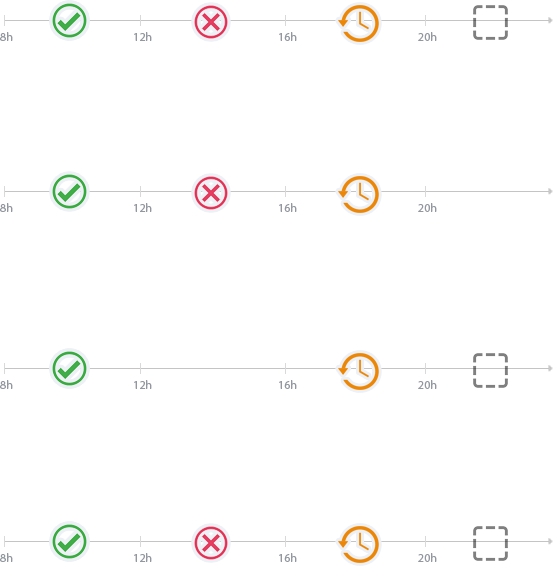
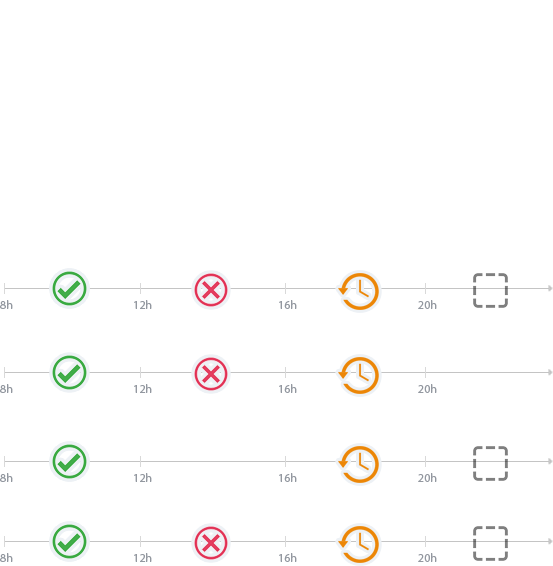
traitement

diff --git a/www/pages/prescriptions.html b/www/pages/prescriptions.html
@@ -65,177 +65,90 @@
             </div>
             <!-- END PAGE HEADER-->
             <div>
-                <section class="cd-horizontal-timeline">
-                    <div class="timeline">
-                        <div class="events-wrapper">
-                            <div class="events">
-                                <ol>
-                                    <li><a href="#0" data-date="16/01/2014" class="selected">16 Jan</a></li>
-                                    <li><a href="#0" data-date="28/02/2014">28 Feb</a></li>
-                                    <li><a href="#0" data-date="20/04/2014">20 Mar</a></li>
-                                    <li><a href="#0" data-date="20/05/2014">20 May</a></li>
-                                    <li><a href="#0" data-date="09/07/2014">09 Jul</a></li>
-                                    <li><a href="#0" data-date="30/08/2014">30 Aug</a></li>
-                                    <li><a href="#0" data-date="15/09/2014">15 Sep</a></li>
-                                    <li><a href="#0" data-date="01/11/2014">01 Nov</a></li>
-                                    <li><a href="#0" data-date="10/12/2014">10 Dec</a></li>
-                                    <li><a href="#0" data-date="19/01/2015">29 Jan</a></li>
-                                    <li><a href="#0" data-date="03/03/2015">3 Mar</a></li>
-                                </ol>
-
-                                <span class="filling-line" aria-hidden="true"></span>
-                            </div> <!-- .events -->
-                        </div> <!-- .events-wrapper -->
-
-                        <ul class="cd-timeline-navigation">
-                            <li><a href="#0" class="prev inactive">Prev</a></li>
-                            <li><a href="#0" class="next">Next</a></li>
-                        </ul> <!-- .cd-timeline-navigation -->
-                    </div> <!-- .timeline -->
-
-                    <div class="events-content">
-                        <ol>
-                            <li class="selected" data-date="16/01/2014">
-                                <h2>Horizontal Timeline</h2>
-                                <em>January 16th, 2014</em>
-                                <p>
-                                    Lorem ipsum dolor sit amet, consectetur adipisicing elit. Illum praesentium officia,
-                                    fugit recusandae ipsa, quia velit nulla adipisci? Consequuntur aspernatur at, eaque
-                                    hic repellendus sit dicta consequatur quae, ut harum ipsam molestias maxime non nisi
-                                    reiciendis eligendi! Doloremque quia pariatur harum ea amet quibusdam quisquam,
-                                    quae, temporibus dolores porro doloribus.
-                                </p>
-                            </li>
-
-                            <li data-date="28/02/2014">
-                                <h2>Event title here</h2>
-                                <em>February 28th, 2014</em>
-                                <p>
-                                    Lorem ipsum dolor sit amet, consectetur adipisicing elit. Illum praesentium officia,
-                                    fugit recusandae ipsa, quia velit nulla adipisci? Consequuntur aspernatur at, eaque
-                                    hic repellendus sit dicta consequatur quae, ut harum ipsam molestias maxime non nisi
-                                    reiciendis eligendi! Doloremque quia pariatur harum ea amet quibusdam quisquam,
-                                    quae, temporibus dolores porro doloribus.
-                                </p>
-                            </li>
-
-                            <li data-date="20/04/2014">
-                                <h2>Event title here</h2>
-                                <em>March 20th, 2014</em>
-                                <p>
-                                    Lorem ipsum dolor sit amet, consectetur adipisicing elit. Illum praesentium officia,
-                                    fugit recusandae ipsa, quia velit nulla adipisci? Consequuntur aspernatur at, eaque
-                                    hic repellendus sit dicta consequatur quae, ut harum ipsam molestias maxime non nisi
-                                    reiciendis eligendi! Doloremque quia pariatur harum ea amet quibusdam quisquam,
-                                    quae, temporibus dolores porro doloribus.
-                                </p>
-                            </li>
-
-                            <li data-date="20/05/2014">
-                                <h2>Event title here</h2>
-                                <em>May 20th, 2014</em>
-                                <p>
-                                    Lorem ipsum dolor sit amet, consectetur adipisicing elit. Illum praesentium officia,
-                                    fugit recusandae ipsa, quia velit nulla adipisci? Consequuntur aspernatur at, eaque
-                                    hic repellendus sit dicta consequatur quae, ut harum ipsam molestias maxime non nisi
-                                    reiciendis eligendi! Doloremque quia pariatur harum ea amet quibusdam quisquam,
-                                    quae, temporibus dolores porro doloribus.
-                                </p>
-                            </li>
-
-                            <li data-date="09/07/2014">
-                                <h2>Event title here</h2>
-                                <em>July 9th, 2014</em>
-                                <p>
-                                    Lorem ipsum dolor sit amet, consectetur adipisicing elit. Illum praesentium officia,
-                                    fugit recusandae ipsa, quia velit nulla adipisci? Consequuntur aspernatur at, eaque
-                                    hic repellendus sit dicta consequatur quae, ut harum ipsam molestias maxime non nisi
-                                    reiciendis eligendi! Doloremque quia pariatur harum ea amet quibusdam quisquam,
-                                    quae, temporibus dolores porro doloribus.
-                                </p>
-                            </li>
-
-                            <li data-date="30/08/2014">
-                                <h2>Event title here</h2>
-                                <em>August 30th, 2014</em>
-                                <p>
-                                    Lorem ipsum dolor sit amet, consectetur adipisicing elit. Illum praesentium officia,
-                                    fugit recusandae ipsa, quia velit nulla adipisci? Consequuntur aspernatur at, eaque
-                                    hic repellendus sit dicta consequatur quae, ut harum ipsam molestias maxime non nisi
-                                    reiciendis eligendi! Doloremque quia pariatur harum ea amet quibusdam quisquam,
-                                    quae, temporibus dolores porro doloribus.
-                                </p>
-                            </li>
-
-                            <li data-date="15/09/2014">
-                                <h2>Event title here</h2>
-                                <em>September 15th, 2014</em>
-                                <p>
-                                    Lorem ipsum dolor sit amet, consectetur adipisicing elit. Illum praesentium officia,
-                                    fugit recusandae ipsa, quia velit nulla adipisci? Consequuntur aspernatur at, eaque
-                                    hic repellendus sit dicta consequatur quae, ut harum ipsam molestias maxime non nisi
-                                    reiciendis eligendi! Doloremque quia pariatur harum ea amet quibusdam quisquam,
-                                    quae, temporibus dolores porro doloribus.
-                                </p>
-                            </li>
-
-                            <li data-date="01/11/2014">
-                                <h2>Event title here</h2>
-                                <em>November 1st, 2014</em>
-                                <p>
-                                    Lorem ipsum dolor sit amet, consectetur adipisicing elit. Illum praesentium officia,
-                                    fugit recusandae ipsa, quia velit nulla adipisci? Consequuntur aspernatur at, eaque
-                                    hic repellendus sit dicta consequatur quae, ut harum ipsam molestias maxime non nisi
-                                    reiciendis eligendi! Doloremque quia pariatur harum ea amet quibusdam quisquam,
-                                    quae, temporibus dolores porro doloribus.
-                                </p>
-                            </li>
-
-                            <li data-date="10/12/2014">
-                                <h2>Event title here</h2>
-                                <em>December 10th, 2014</em>
-                                <p>
-                                    Lorem ipsum dolor sit amet, consectetur adipisicing elit. Illum praesentium officia,
-                                    fugit recusandae ipsa, quia velit nulla adipisci? Consequuntur aspernatur at, eaque
-                                    hic repellendus sit dicta consequatur quae, ut harum ipsam molestias maxime non nisi
-                                    reiciendis eligendi! Doloremque quia pariatur harum ea amet quibusdam quisquam,
-                                    quae, temporibus dolores porro doloribus.
-                                </p>
-                            </li>
-
-                            <li data-date="19/01/2015">
-                                <h2>Event title here</h2>
-                                <em>January 19th, 2015</em>
-                                <p>
-                                    Lorem ipsum dolor sit amet, consectetur adipisicing elit. Illum praesentium officia,
-                                    fugit recusandae ipsa, quia velit nulla adipisci? Consequuntur aspernatur at, eaque
-                                    hic repellendus sit dicta consequatur quae, ut harum ipsam molestias maxime non nisi
-                                    reiciendis eligendi! Doloremque quia pariatur harum ea amet quibusdam quisquam,
-                                    quae, temporibus dolores porro doloribus.
-                                </p>
-                            </li>
-
-                            <li data-date="03/03/2015">
-                                <h2>Event title here</h2>
-                                <em>March 3rd, 2015</em>
-                                <p>
-                                    Lorem ipsum dolor sit amet, consectetur adipisicing elit. Illum praesentium officia,
-                                    fugit recusandae ipsa, quia velit nulla adipisci? Consequuntur aspernatur at, eaque
-                                    hic repellendus sit dicta consequatur quae, ut harum ipsam molestias maxime non nisi
-                                    reiciendis eligendi! Doloremque quia pariatur harum ea amet quibusdam quisquam,
-                                    quae, temporibus dolores porro doloribus.
-                                </p>
-                            </li>
-                        </ol>
-                    </div> <!-- .events-content -->
-                </section>
-
+<section style="display:  inline-block; margin-right: 20px; width: 40%">
+    <div class="portlet-body">
+        <div class="mt-element-list">
+            <div class="mt-list-head list-default green-haze">
+                <div class="row">
+                    <div class="col-xs-8">
+                        <div class="list-head-title-container">
+                            <h3 class="list-title uppercase sbold">Médicaments Préscrits</h3>
+                            <div class="list-date">20 Mars 2017</div>
+                        </div>
+                    </div>
+                </div>
+            </div>
+            <div class="mt-list-container list-default">
+                <div class="mt-list-title uppercase">Médicaments
+                </div>
+                <ul>
+                    <li class="mt-list-item">
+                        <div class="list-icon-container done">
+                            <i class="fa fa-medkit"></i>
+                        </div>
+                        <div class="list-datetime"> 20 Mars
+                            <br/> 11h30
+                        </div>
+                        <div class="list-item-content">
+                            <h3 class="uppercase bold">
+                                <a href="javascript:;">Esomeprazole</a>
+                            </h3>
+                            <p>40mg</p>
+                        </div>
+                    </li>
+                    <li class="mt-list-item">
+                        <div class="list-icon-container done">
+                            <i class="fa fa-medkit"></i>
+                        </div>
+                        <div class="list-datetime"> 20 Mars
+                            <br/> 11h30
+                        </div>
+                        <div class="list-item-content">
+                            <h3 class="uppercase bold">
+                                <a href="javascript:;">Diclofénac</a>
+                            </h3>
+                            <p>50mg</p>
+                        </div>
+                    </li>
+                    <li class="mt-list-item">
+                        <div class="list-icon-container done">
+                            <i class="fa fa-medkit"></i>
+                        </div>
+                        <div class="list-datetime"> 20 Mars
+                            <br/> 11h30
+                        </div>
+                        <div class="list-item-content">
+                            <h3 class="uppercase bold">
+                                <a href="javascript:;">Paracétamol</a>
+                            </h3>
+                            <p>1000mg</p>
+                        </div>
+                    </li>
+                    <li class="mt-list-item">
+                        <div class="list-icon-container done">
+                            <i class="fa fa-medkit"></i>
+                        </div>
+                        <div class="list-datetime"> 20 Mars
+                            <br/> 11h30
+                        </div>
+                        <div class="list-item-content">
+                            <h3 class="uppercase bold">
+                                <a href="javascript:;">Forlax</a>
+                            </h3>
+                            <p>10g</p>
+                        </div>
+                    </li>
+                </ul>
             </div>
         </div>
-        <!-- END CONTENT BODY -->
     </div>
-    <!-- END CONTENT -->
-
+</section>
+                <section style="display: inline-block; margin-left: 50px">
+                    <img src="../img/traitements_bar2.png" height="300"/>
+                </section>
+            </div>
+        </div>
+    </div>
 </div>
 <!-- END CONTAINER -->
 <!-- BEGIN FOOTER -->

diff --git a/www/admin_2/elements_lists.html b/www/admin_2/elements_lists.html
@@ -2537,26 +2537,14 @@ License: You must have a valid license purchased only from themeforest(the above
                                             <div class="row">
                                                 <div class="col-xs-8">
                                                     <div class="list-head-title-container">
-                                                        <h3 class="list-title uppercase sbold">Default List</h3>
-                                                        <div class="list-date">Nov 8, 2015</div>
-                                                    </div>
-                                                </div>
-                                                <div class="col-xs-4">
-                                                    <div class="list-head-summary-container">
-                                                        <div class="list-pending">
-                                                            <div class="badge badge-default list-count">3</div>
-                                                            <div class="list-label">Pending</div>
-                                                        </div>
-                                                        <div class="list-done">
-                                                            <div class="list-count badge badge-default last">2</div>
-                                                            <div class="list-label">Completed</div>
-                                                        </div>
+                                                        <h3 class="list-title uppercase sbold">Mdicaments préscrits</h3>
+                                                        <div class="list-date">19 Mars 2017</div>
                                                     </div>
                                                 </div>
                                             </div>
                                         </div>
                                         <div class="mt-list-container list-default">
-                                            <div class="mt-list-title uppercase">My List
+                                            <div class="mt-list-title uppercase">Médicaments
                                                 <span class="badge badge-default pull-right bg-hover-green-jungle">
                                                     <a class="font-white" href="javascript:;">
                                                         <i class="fa fa-plus"></i>
@@ -2567,7 +2555,7 @@ License: You must have a valid license purchased only from themeforest(the above
                                                 <li class="mt-list-item">
                                                     <div class="list-icon-container done">
                                                         <a href="javascript:;">
-                                                            <i class="icon-check"></i>
+                                                            <i class="icon-medkit"></i>
                                                         </a>
                                                     </div>
                                                     <div class="list-datetime"> 11am
